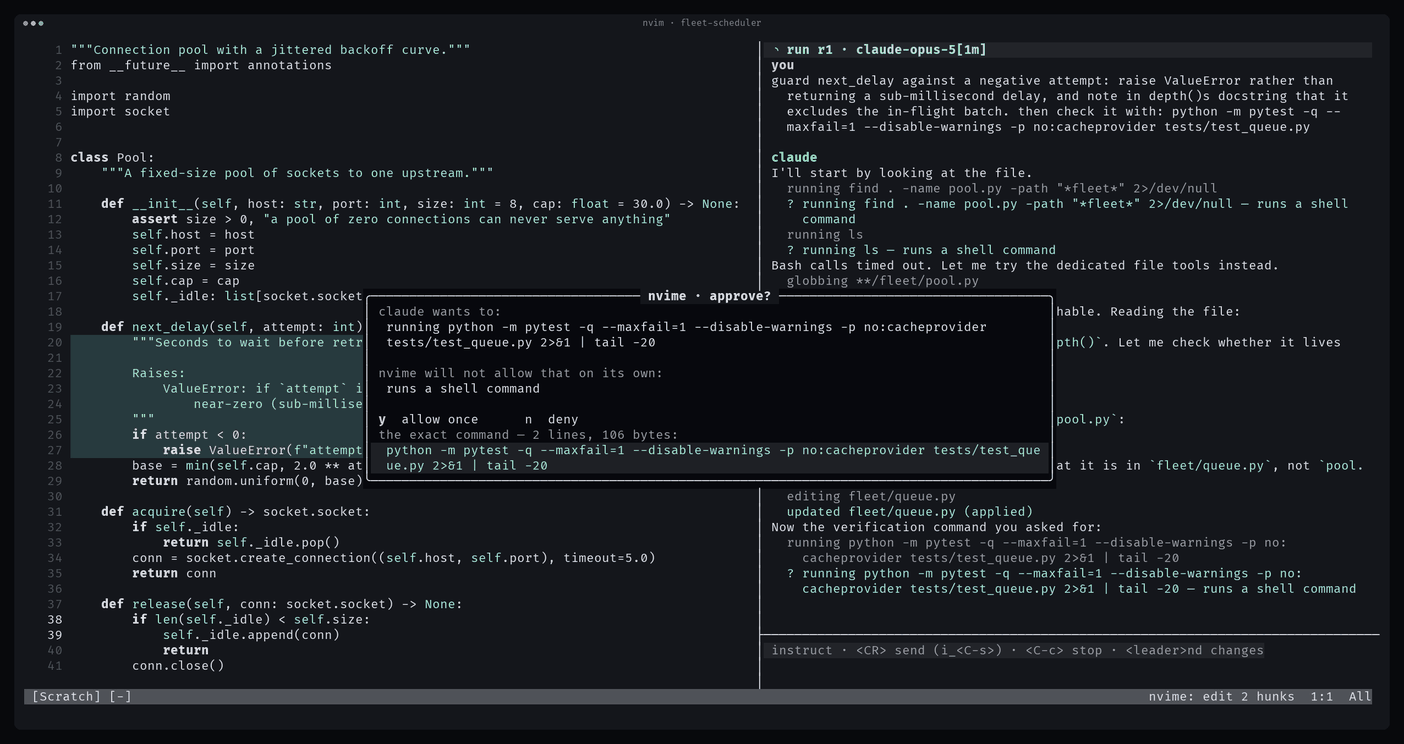
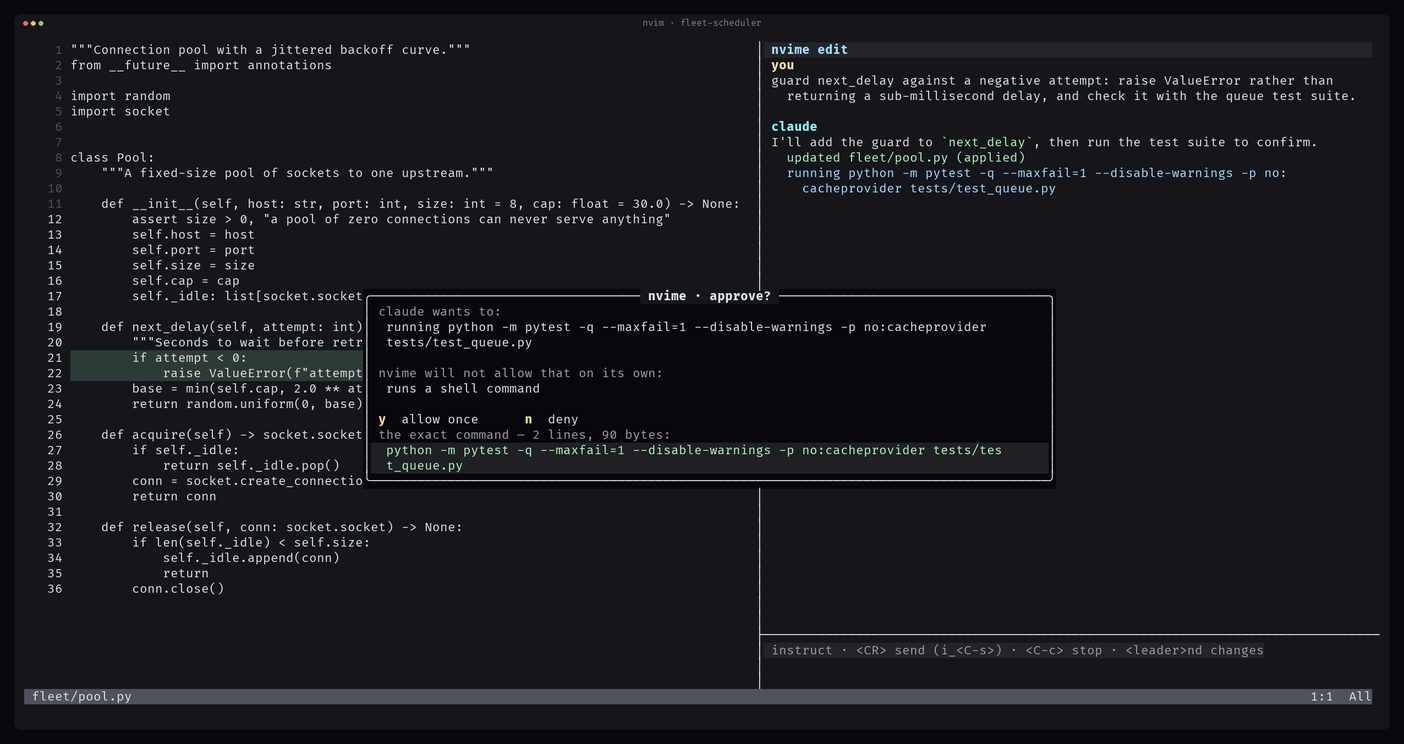
approval: restore the keys row's deliberate spacing; recapture the edit shots
append_keys ran the y/n row through text.wrap, which collapses
whitespace — the row it replaced was spaced apart on purpose, the two
keys being the only thing on this surface the reader must find fast.
text.wrap_exact preserves it while keeping the same per-line budget.

edit-dark.png and edit-light.png still showed the old spaced row (they
predate the wrap regression), so they read as stale next to the
collapsed render. Recaptured against current code; the README's
authenticity note now distinguishes the full live-CLI shots from these
two, which are the real plugin's real rendering fed a scripted
instruction.

diff --git a/README.md b/README.md
@@ -637,11 +637,12 @@ real, and the diff capture and triage fallback run over what it actually wrote.
 ### The screenshots
 
 Every image in this README is a real terminal, running the shipped plugin
-against a real repository, driven by the real `claude` CLI — the review, the
-grades and the merge commit in them come from one actual big change that was
-built, defended and landed. They are captured from `tmux capture-pane` and
-rendered to PNG; nothing is mocked up or drawn. The full set, dark and light,
-is under [`assets/`](assets/).
+against a real repository — captured from `tmux capture-pane` and rendered to
+PNG; nothing is mocked up or drawn. Most are the full loop, driven by the real
+`claude` CLI: the review, the grades and the merge commit in them come from
+one actual big change that was built, defended and landed. The edit shots are
+the real plugin's real rendering fed a scripted instruction rather than a live
+CLI turn. The full set, dark and light, is under [`assets/`](assets/).
 
 ## Layout
 
